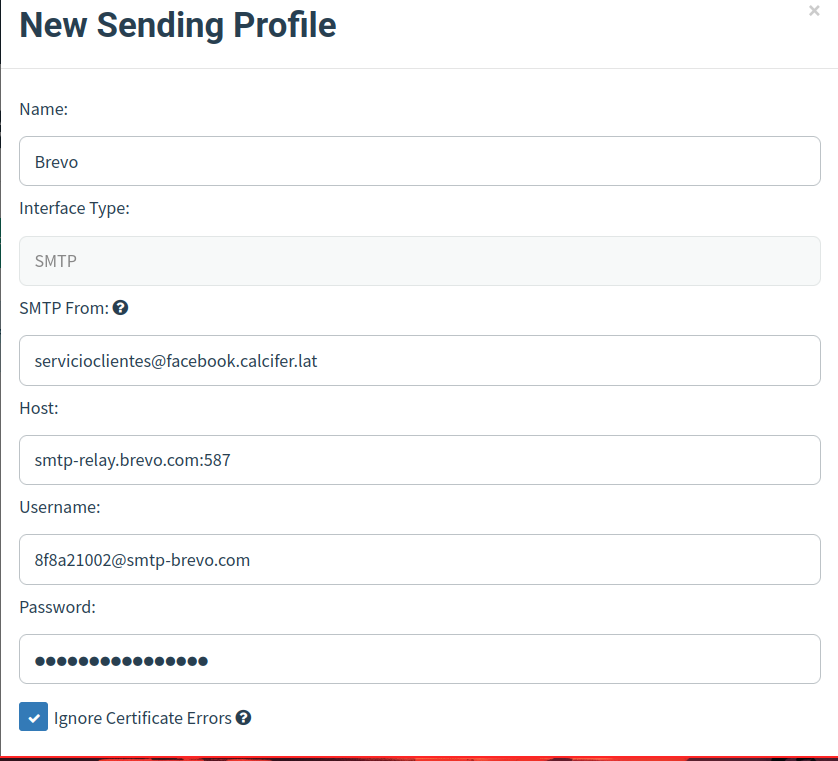
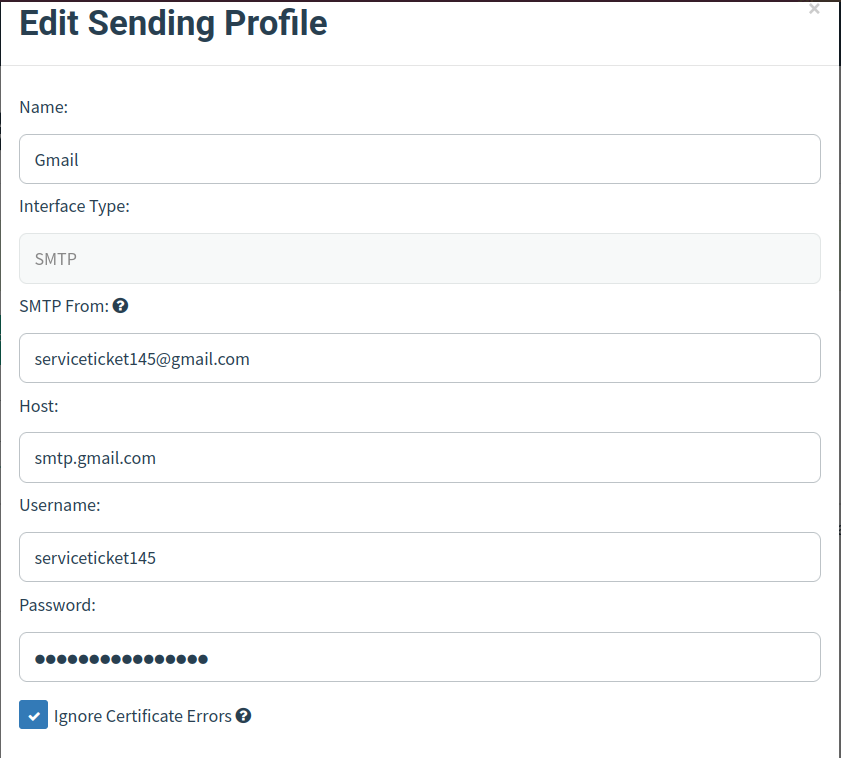
Sending Profiles Gophish completo

diff --git a/HFC/RedTeam/Phishing/RedTeam_PhishingPractica.md b/HFC/RedTeam/Phishing/RedTeam_PhishingPractica.md
@@ -132,11 +132,28 @@ Una vez **importada**, al recargar la página deberíamos estar *logeados* como 
 ![redteam_logged_facebook.png](imagenes/redteam_logged_facebook.png)
 
 ---
-## Servidor SMTP Relay
 
-> Antes de entrar de lleno a **Gophish**, debemos asegurarnos de contar con un **servidor de correos** capaz de **retransmitir** los correos que generemos.
+## Servidor de correos
 
-Para este laboratorio se utilizó [**Brevo**](https://www.brevo.com/), un servicio de **Email Relay** gratuito y confiable, pero no debería ser demasiado distinto para otros servicios.
+> Antes de entrar de lleno a **Gophish**, debemos asegurarnos de contar con un **servidor de correos** capaz de **retransmitir** los correos que generemos para la campaña.
+
+Algunas opciones comunes son:
+
+1. Montar nuestro propio servidor.
+2. Utilizar un servicio ***SMTP Relay*** de nuestro dominio.
+3. Utilizar un servicio (y dominio) de **terceros** (*Gmail*, *Outlook*, etc).
+
+Claro, lo más recomendable es ==montar nuestro propio servidor==, en algun servicio de **hosting** que lo permita.
+
+Sin embargo, esto es **ligeramente** dificil para este laboratorio por las restricciones y demás medidas de seguridad que se implementan sobre los **VPS** para evitar el **spam** de correos, pero aún es bastante factible con el presupuesto adecuado.
+
+Por otra parte, actualmente los servicios de **SMTP Relay** poseen igualmente estrictas medidas de seguridad para evitar el maluso y spam de correos mediante su plataforma:
+
+#### Servidor SMTP Relay
+
+> Para este ejemplo se utilizó [**Brevo**](https://www.brevo.com/), un servicio de **Email Relay** gratuito y confiable, que no debería ser demasiado distinto de otros servicios similares.
+
+Cabe recalcar que fui bloqueado de Brevo casi instantáneamente después de configurar el **Relay**, de modo que insisto que las medidas de seguridad continuan evolucionando y la mayoría de estos servicios podrían impedirnos su uso para este propósito.
 
 <p  align="center">
   <img  width="200"  src="https://cdn.prod.website-files.com/644d2f3aa527d53cc6072c67/65f2f21227a909133ceb5ffd_brevo%20logo%201.webp"  alt="">
@@ -168,6 +185,17 @@ Esto con el fin de indicarlo para la configuración de **Gophish** más tarde:
 
 ![redteam_smtp_info.png](imagenes/redteam_smtp_info.png)
 
+#### Servicio de terceros
+
+> Finalmente, lo que se terminó utilizando para este laboratorio fue el servicio **SMTP** provisto por *Gmail* para todos sus usuarios registrados. Básicamente nos permite enviar un correo desde una cuenta de **Gmail**, que autenticamos, a cualquier correo.
+
+Es más restrictivo en el sentido de que el remitente **no** será de nuestro dominio, ni podemos personalizar su nombre como en las opciones anteriores.
+Se reduce el remitente especificamente a una cuenta *Gmail* desde el dominio típico `gmail.com`.
+
+- El servidor **SMTP** siempre será el mismo, `smtp.gmail.com` con el puerto **587**.
+- El usuario será el mismo usuario que hayamos decidido para la cuenta *Gmail*, sin especificar el dominio `@gmail.com`.
+- Para obtener la contraseña, primero debemos activar la **verificación en 2 pasos** en la cuenta, y así poder solicitar una [**Contraseña de aplicación**](https://myaccount.google.com/apppasswords) relacionada a la cuenta.
+
 ---
 ## Gophish
 
@@ -181,15 +209,19 @@ Lo primero es descargar la última versión del comprimido **pre-compilado** del
 
 Despues de descomprimirlo, se obtiene un ejecutable `gophish` que, con los permisos adecuados, despliega el **panel administrativo** en un servidor web dentro de la red *loopback*: `https://localhost:3333`.
 
-Además en la misma terminal, nos mostrará las credenciales para autenticarnos en l panel de **Gophish**. Después de hacerlo y actualizar la contraseña, deberíamos ver desplegada la herramienta:
+Además en la misma terminal, nos mostrará las credenciales para autenticarnos en el panel de **Gophish**. Después de hacerlo y actualizar la contraseña, deberíamos ver desplegada la herramienta:
 
 ![redteam_gophish_panel.png](imagenes/redteam_gophish_panel.png)
 
-Lo primero es configurar en *Sending Profiles* nuestro servidor **SMTP** y **remitente** por utilizar:
+#### Perfil de envío
+
+Lo primero es configurar en *Sending Profiles* nuestro servidor **SMTP** y **remitente** por utilizar (el servidor **SMTP** de *Gmail* y la cuenta recién creada):
 
 ![redteam_sending_profile.png](imagenes/redteam_sending_profile.png)
 
-Puedes enviarte un correo de prueba para verificar que el **perfil** este bien configurado.
+Puedes enviarte un correo de prueba para verificar que el **perfil** este bien configurado, y se vería algo así:
+
+![redteam_gophish_testmail.png](imagenes/redteam_gophish_testmail.png)
 
 # Enlaces
 
